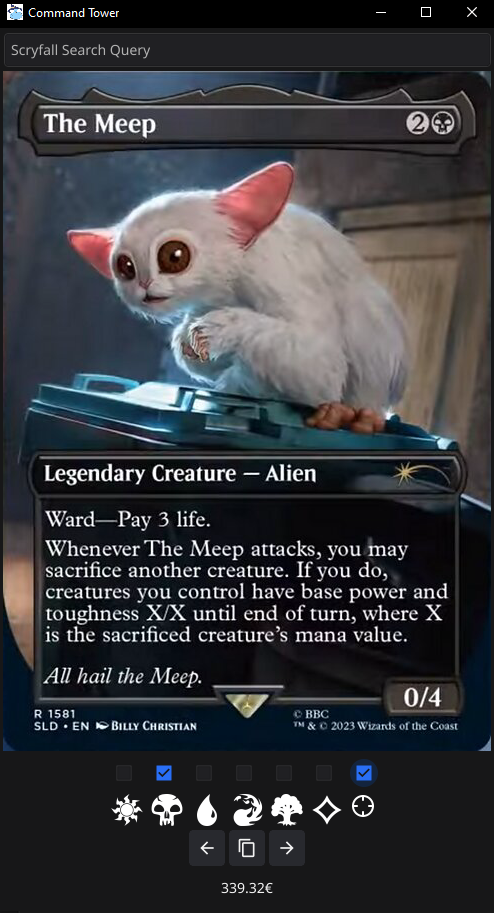
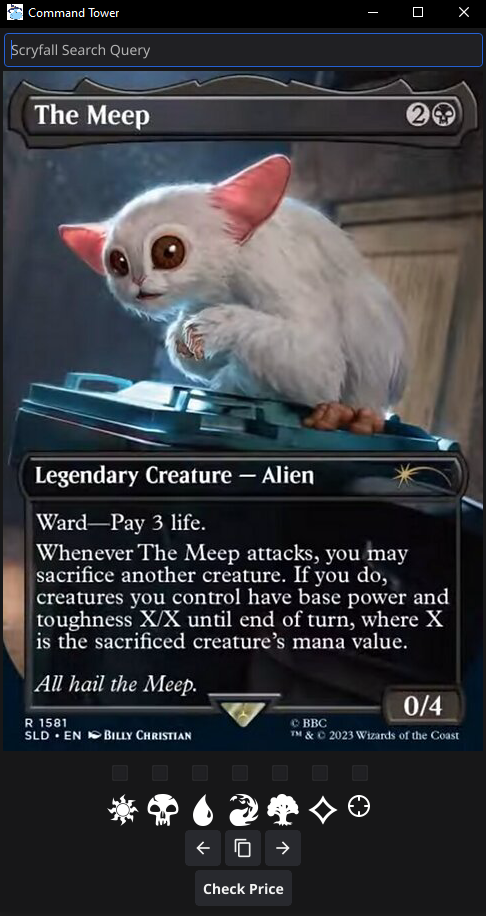
updated README

Changed region(s): [[0.0, 0.0, 1.0, 0.9814], [0.9877, 0.6747, 1.0, 0.7054]]

diff --git a/model.go b/model.go
@@ -19,29 +19,10 @@ import (
 var EdhrecBaseUrl = "https://edhrec.com"
 var NumberOfGoRoutines = 2
 
-// GetCommanderImageAndDecklist
-// Selects a random commander depending on the input constraints and fetches an image and a decklist for said commander
+// GetCommanderFromScryfall
+// Selects a random commander depending on the input constraints and fetches an image and for said commander
 // Params: An Array of strings containing all currently selected color checkboxes (and the "Exact" checkbox) from the UI
-// Returns: A Tuple of 2 strings and a float, the first of the strings being the image URI of the commander and the second being the decklist for the commander and the float being the price of the decklist
-func GetCommanderImageAndDecklist(selectedColors []string, searchQuery string) (string, string, float64) {
-	var query = BuildScryfallCommanderQuery(selectedColors, searchQuery)
-	fmt.Println("Retrieving Commander with Query: " + query)
-	commanderData, err := GetScryfallCommanderData(query)
-	if err != nil {
-		return "", "", 0.0 // return a placeholder image and no decklist
-	} else {
-		cardName, imageUri := ParseScryfallData(commanderData)
-		fmt.Println(cardName + " : " + imageUri)
-		deckList, err := GetEDHRecAvgDecklist(cardName)
-		if err != nil {
-			return "", "", 0.0 // return a placeholder image and no decklist
-		} else {
-			price := GetScryfallPricingData(strings.Split(deckList, "\n"), NumberOfGoRoutines)
-			return imageUri, deckList, price
-		}
-	}
-}
-
+// Returns: A Tuple of 2 strings, the first of which being the formatted name of the commander and the second being the link to its card image
 func GetCommanderFromScryfall(selectedColors []string, searchQuery string) (string, string) {
 	var query = BuildScryfallCommanderQuery(selectedColors, searchQuery)
 	fmt.Println("Retrieving Commander with Query: " + query)

diff --git a/session_state.go b/session_state.go
@@ -1,8 +1,10 @@
 package main
 
 import (
+	"errors"
 	"fmt"
 	"fyne.io/fyne/v2"
+	"os"
 	"strings"
 )
 
@@ -15,20 +17,15 @@ type SessionState struct {
 	prevCommanderDeckPrices []float64
 }
 
-func GetCurrentCommanderData(state *SessionState) fyne.Resource {
-	if len(state.prevCommanderImages) > 0 {
-		resource := state.prevCommanderImages[state.commanderCount-state.backSteps]
-		return resource
-	} else {
-		return nil
-	}
-}
-
 func GetPreviousCommanderData(state *SessionState) fyne.Resource {
 	if state.commanderCount > 0 && state.backSteps < state.commanderCount {
 		state.backSteps += 1
-		resource := GetCurrentCommanderData(state)
-		return resource
+		if len(state.prevCommanderImages) > 0 {
+			resource := state.prevCommanderImages[state.commanderCount-state.backSteps]
+			return resource
+		} else {
+			return nil
+		}
 	} else {
 		return nil
 	}
@@ -87,4 +84,23 @@ func GetCurrentDeckPrice(state *SessionState) float64 {
 		}
 	}
 	return 0.0
+}
+
+func PersistCompleteDataSets(state *SessionState) {
+	cacheDir, err := os.UserCacheDir()
+	if err == nil {
+		// Check if cache directory exists and if not create it
+		if _, err = os.Stat(cacheDir + string(os.PathSeparator) + "CommandTower"); errors.Is(err, os.ErrNotExist) {
+			os.Mkdir(cacheDir+string(os.PathSeparator)+"CommandTower", os.ModePerm)
+		}
+		// Check if cache exists and if not create it
+		if _, err = os.Stat(cacheDir + string(os.PathSeparator) + "CommandTower" + string(os.PathListSeparator) + "commander_data.json"); errors.Is(err, os.ErrNotExist) {
+			os.Create(cacheDir + string(os.PathSeparator) + "CommandTower" + string(os.PathListSeparator) + "commander_data.json")
+		}
+		for i := range state.commanderCount {
+			if state.prevCommanderImages[i] != nil && state.prevCommanderDecklists != nil {
+				// TODO: ADD MARSHALLING
+			}
+		}
+	}
 }

diff --git a/main.go b/main.go
@@ -136,7 +136,6 @@ func main() {
 	// Load initial state
 	// pull any first commander image
 	image := GetNextCommanderData(&state, GetSelectedChoices(choiceColorMap), searchQuery.Text) // get any first commander (nothing selected)
-	//price.Set(strconv.FormatFloat(p, 'f', 2, 64) + "€")
 	// Set the Image inside the View and Refresh
 	img.Resource = image
 	img.Refresh()

diff --git a/README.md b/README.md
@@ -75,7 +75,7 @@ By Pressing: "More Information" -> "Run Anyways" you can circumvent this.
 Here is a quick rundown of the UI elements:
 * "Scyfall Search Query" is a TextField where you can enter specific search queries for names, types
   * The search syntax is equal to the [Scryfall syntax](https://scryfall.com/docs/syntax)
-  * Note: entering a color query here should be avoided, i havent tested how it behaves in combination with the color checkboxes
+  * Note: entering a color query here should be avoided, i haven't tested how it behaves in combination with the color checkboxes
 * Card Image
   * The randomly generated commanders will be displayed here, if the commander has no valid deck or the query ran into an error a placeholder cardback will be displayed
 * Color checkboxes (In Order: White, Black, Blue, Red, Green, Colorless, Exact)
@@ -89,9 +89,9 @@ Here is a quick rundown of the UI elements:
     * the formate is:    <amount> <Cardname> \n ...
   * Next (->)
     * retrieves a new commander for the given query and color selection
-* Price
+* Check Price
   * Displays a price estimate for the deck in Euro ( might add $ toggle in the future, sorry non-europeans :) ) this is generally lowballed, since it checks for the cheapest possible price of the newest print of each card in the deck.
-
+  * The Price check is a very expensive operation, so expect to wait some seconds for it to complete (performance linked to the price checking api)
 <p align="right">(<a href="#readme-top">back to top</a>)</p>
 
 
